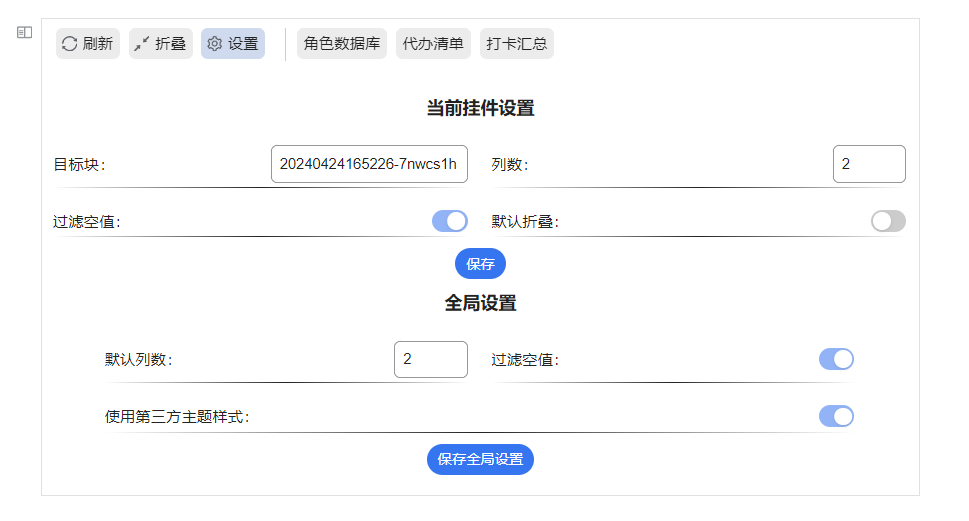
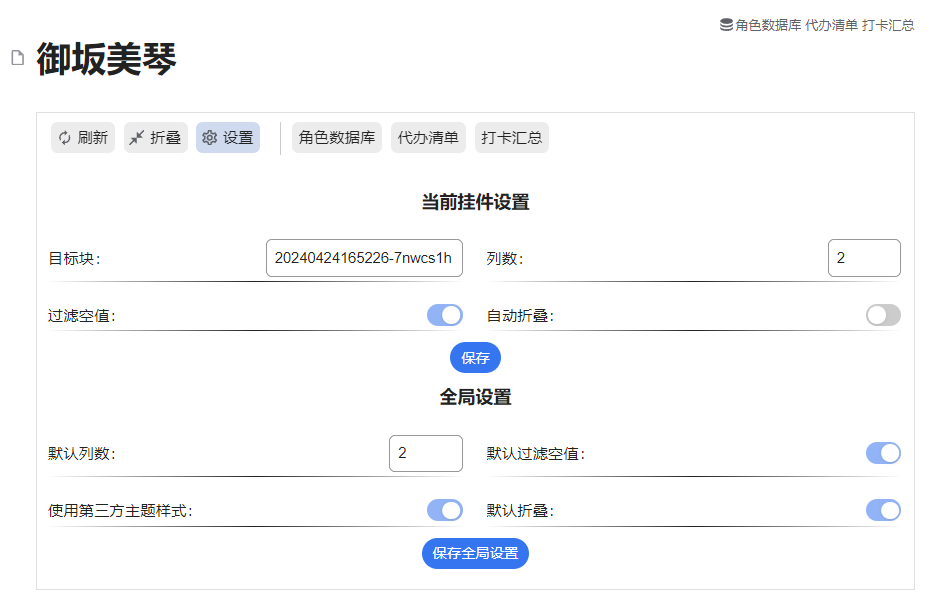
增加全局设置项：默认折叠

diff --git a/src/components/view/setting-view.svelte b/src/components/view/setting-view.svelte
@@ -9,7 +9,6 @@
     };
 
     function clickSaveButton() {
-
         SettingConfig.ins.update(widgetSettingDto);
     }
 
@@ -56,12 +55,12 @@
             />
         </div>
         <div class="fn__flex div_bottom">
-            <div class="fn__flex-1">默认折叠：</div>
+            <div class="fn__flex-1">自动折叠：</div>
             <span class="fn__space"></span>
             <input
                 class="b3-switch fn__flex-center"
                 type="checkbox"
-                bind:checked={widgetSettingDto.defaultCollapsed}
+                bind:checked={widgetSettingDto.openDocAutoCollapsed}
             />
         </div>
 
@@ -102,6 +101,15 @@
                 bind:checked={widgetGlobakSettingDto.useThirdPartyThemeStyles}
             />
         </div>
+        <div class="fn__flex div_bottom">
+            <div class="fn__flex-1">默认折叠：</div>
+            <span class="fn__space"></span>
+            <input
+                class="b3-switch fn__flex-center"
+                type="checkbox"
+                bind:checked={widgetGlobakSettingDto.defaultCollapsed}
+            />
+        </div>
 
         <div class="flex_center" style="flex-basis: 100%;">
             <button class="b3-button" on:click={clickSaveGlobalButton}
@@ -114,7 +122,7 @@
 <style>
     .fn__flex {
         display: flex;
-        flex: 1 0 45%;
+        flex: 1 0 43%;
         border-image: linear-gradient(
                 to right,
                 transparent,

diff --git a/src/structures/WidgetSettingStructure.ts b/src/structures/WidgetSettingStructure.ts
@@ -5,13 +5,13 @@ export class WidgetAttrSettingDto {
     lastSelectAvId: string;
     columns: number;
     filterEmpty: boolean;
-    defaultCollapsed: boolean;
+    openDocAutoCollapsed: boolean;
 
-    constructor(targetBlockId: string, columns: number, filterEmpty: boolean) {
+    constructor(targetBlockId: string, columns: number, filterEmpty: boolean,openDocAutoCollapsed:boolean) {
         this.targetBlockId = targetBlockId;
         this.columns = columns;
         this.filterEmpty = filterEmpty;
-        this.defaultCollapsed = false;
+        this.openDocAutoCollapsed = openDocAutoCollapsed;
     }
 }
 
@@ -23,11 +23,13 @@ export class WidgetGlobalSettingDto {
     defaultColumns: number;
     defaultFilterEmpty: boolean;
     useThirdPartyThemeStyles: boolean;
+    defaultCollapsed: boolean;
 
     constructor() {
         this.defaultColumns = 1;
         this.defaultFilterEmpty = false;
         this.useThirdPartyThemeStyles = false;
+        this.defaultCollapsed = false;
     }
 }
 

diff --git a/src/config/setting-config.ts b/src/config/setting-config.ts
@@ -29,7 +29,12 @@ export class SettingConfig {
         }
 
         try {
-            this.widgetSettingDto = new WidgetAttrSettingDto(null, this.widgetGlobalSettingDto.defaultColumns, this.widgetGlobalSettingDto.defaultFilterEmpty);
+            this.widgetSettingDto = new WidgetAttrSettingDto(
+                null,
+                this.widgetGlobalSettingDto.defaultColumns,
+                this.widgetGlobalSettingDto.defaultFilterEmpty,
+                this.widgetGlobalSettingDto.defaultCollapsed
+            );
 
             this.widgetBlockId = getCurrentWidgetId();
 
@@ -43,7 +48,7 @@ export class SettingConfig {
                 let defalutTargetBlockId = widgetRootId ? widgetRootId : this.widgetBlockId;
                 this.widgetSettingDto.targetBlockId = defalutTargetBlockId;
             }
-            this.widgetCollapsed = this.widgetSettingDto.defaultCollapsed;
+            this.widgetCollapsed = this.widgetSettingDto.openDocAutoCollapsed;
         } catch (e) {
 
         }

diff --git a/src/components/home.svelte b/src/components/home.svelte
@@ -24,6 +24,8 @@
 
         await SettingConfig.ins.load();
         refreshCssLink();
+        selectAttributeTabId =
+            SettingConfig.ins.widgetSettingDto.lastSelectAvId;
         await refreshBlockAttributeData();
 
         // const endTime = performance.now(); // 记录结束时间
@@ -98,6 +100,7 @@
             selectTabType = tabType;
             selectAttributeTabId = tabId;
             SettingConfig.ins.widgetSettingDto.lastSelectAvId = tabId;
+            SettingConfig.ins.update(SettingConfig.ins.widgetSettingDto);
             refreshBlockAttributeData();
         }
         console.log(

diff --git a/src/services/block-database.ts b/src/services/block-database.ts
@@ -103,9 +103,9 @@ function contentFilterValid(cellValue: IAVCellValue): boolean {
             content = '1';
             break;
         case "template":
-            content = cellValue.template.content.trim();
-            if (content == "<no value>") {
-                content = null;
+            content = cellValue.template.content;
+            if (content) {
+                content = content.replace("<no value>", "").trim();
             }
             break;
         case "email":

diff --git a/README.md b/README.md
@@ -4,6 +4,7 @@
 
 ![Alt text](https://github.com/Misuzu2027/sywidget-block-database-view/blob/master/README.asstes/attribute-page.png?raw=true)
 
+块存在多个数据库时，每次打开文档时默认显示上次最后查看的数据库，如果被上次查看的数据库不存在就显示第一个，如果没有数据库就显示设置页。
 
 ### 设置页
 
@@ -17,17 +18,19 @@
   * 创建挂件时读取全局配置中的默认列数。
 * 过滤空值
   * 如果属性值为空的属性就隐藏。
-* 默认折叠
-  * 用于打开文档时，挂件是否折叠。
+* 自动折叠：
+  * 用于打开文档时，挂件是否自动折叠。
 
 修改后保存后需要点击左上角刷新按钮
 
 #### 全局设置
 
 * 默认列数
-  * 创建新挂件时，会使用这个配置。
+  * 创建新挂件时，列数 会使用这个配置。
 * 默认过滤空值
-  * 创建新挂件时，会使用这个配置。
+  * 创建新挂件时，过滤空值 会使用这个配置。
+* 默认折叠
+  * 创建新挂件时，自动折叠 会使用这个配置。
 * 使用第三方主题样式
   * 这是一个兼容项，比如多选属性中的颜色样式，使用的是 css 自定义变量，如果用了第三方主题，会出现挂件中展示的多选标签和思源页面中的的不一致，所以提供了引用第三方主题样式的配置。
   * 开启后只需要点击左上角刷新按钮即可生效，关闭需要刷新整个文档页才恢复。

diff --git a/README_zh_CN.md b/README_zh_CN.md
@@ -4,6 +4,7 @@
 
 ![Alt text](https://github.com/Misuzu2027/sywidget-block-database-view/blob/master/README.asstes/attribute-page.png?raw=true)
 
+块存在多个数据库时，每次打开文档时默认显示上次最后查看的数据库，如果被上次查看的数据库不存在就显示第一个，如果没有数据库就显示设置页。
 
 ### 设置页
 
@@ -17,17 +18,19 @@
   * 创建挂件时读取全局配置中的默认列数。
 * 过滤空值
   * 如果属性值为空的属性就隐藏。
-* 默认折叠
-  * 用于打开文档时，挂件是否折叠。
+* 自动折叠：
+  * 用于打开文档时，挂件是否自动折叠。
 
 修改后保存后需要点击左上角刷新按钮
 
 #### 全局设置
 
 * 默认列数
-  * 创建新挂件时，会使用这个配置。
+  * 创建新挂件时，列数 会使用这个配置。
 * 默认过滤空值
-  * 创建新挂件时，会使用这个配置。
+  * 创建新挂件时，过滤空值 会使用这个配置。
+* 默认折叠
+  * 创建新挂件时，自动折叠 会使用这个配置。
 * 使用第三方主题样式
   * 这是一个兼容项，比如多选属性中的颜色样式，使用的是 css 自定义变量，如果用了第三方主题，会出现挂件中展示的多选标签和思源页面中的的不一致，所以提供了引用第三方主题样式的配置。
   * 开启后只需要点击左上角刷新按钮即可生效，关闭需要刷新整个文档页才恢复。
